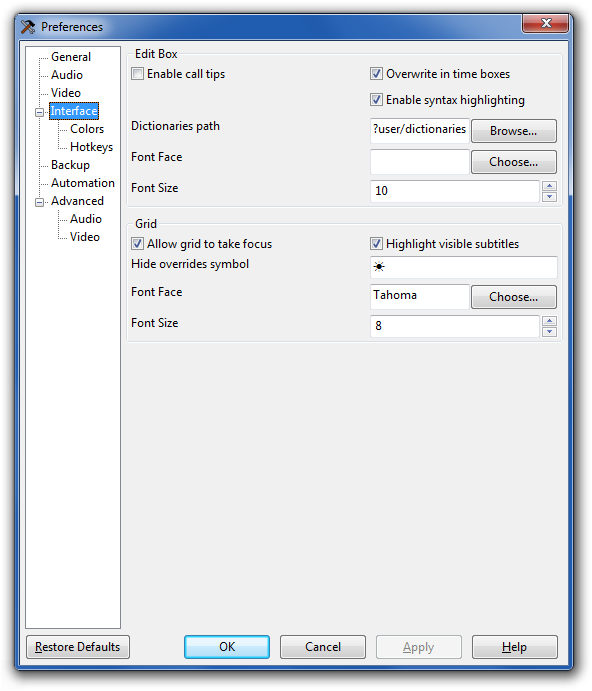
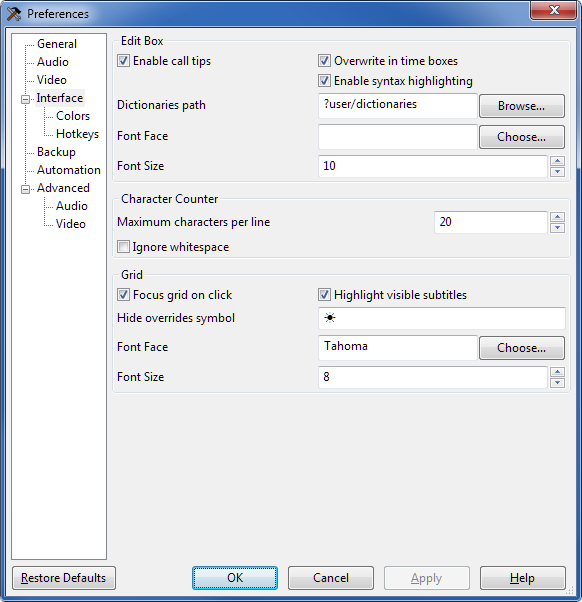
Update interface preferences

diff --git a/source/docs/3.1/Options.html.md b/source/docs/3.1/Options.html.md
@@ -230,7 +230,15 @@ Aegisub there instead.
 : Decides the font and fontsize used for the subtitle edit box and other edit
 boxes.
 
-**Allow grid to take focus**
+**Maximum characters per line**
+: If the value of the character counter is higher than this number, the
+background will turn red to alert you that you have exceeded the maximum line
+length. The maximum length is not enforced in any other way.
+
+**Ignore whitespace**
+: If enabled, whitespace will not be included in the character count.
+
+**Focus grid on click**
 : When enabled, the subtitles grid acts as its own area of the program and it
 can have focus, just like the audio or the video can, and while it does you can
 use the arrow keys/mouse wheel to scroll around it etc. On the other hand, if
